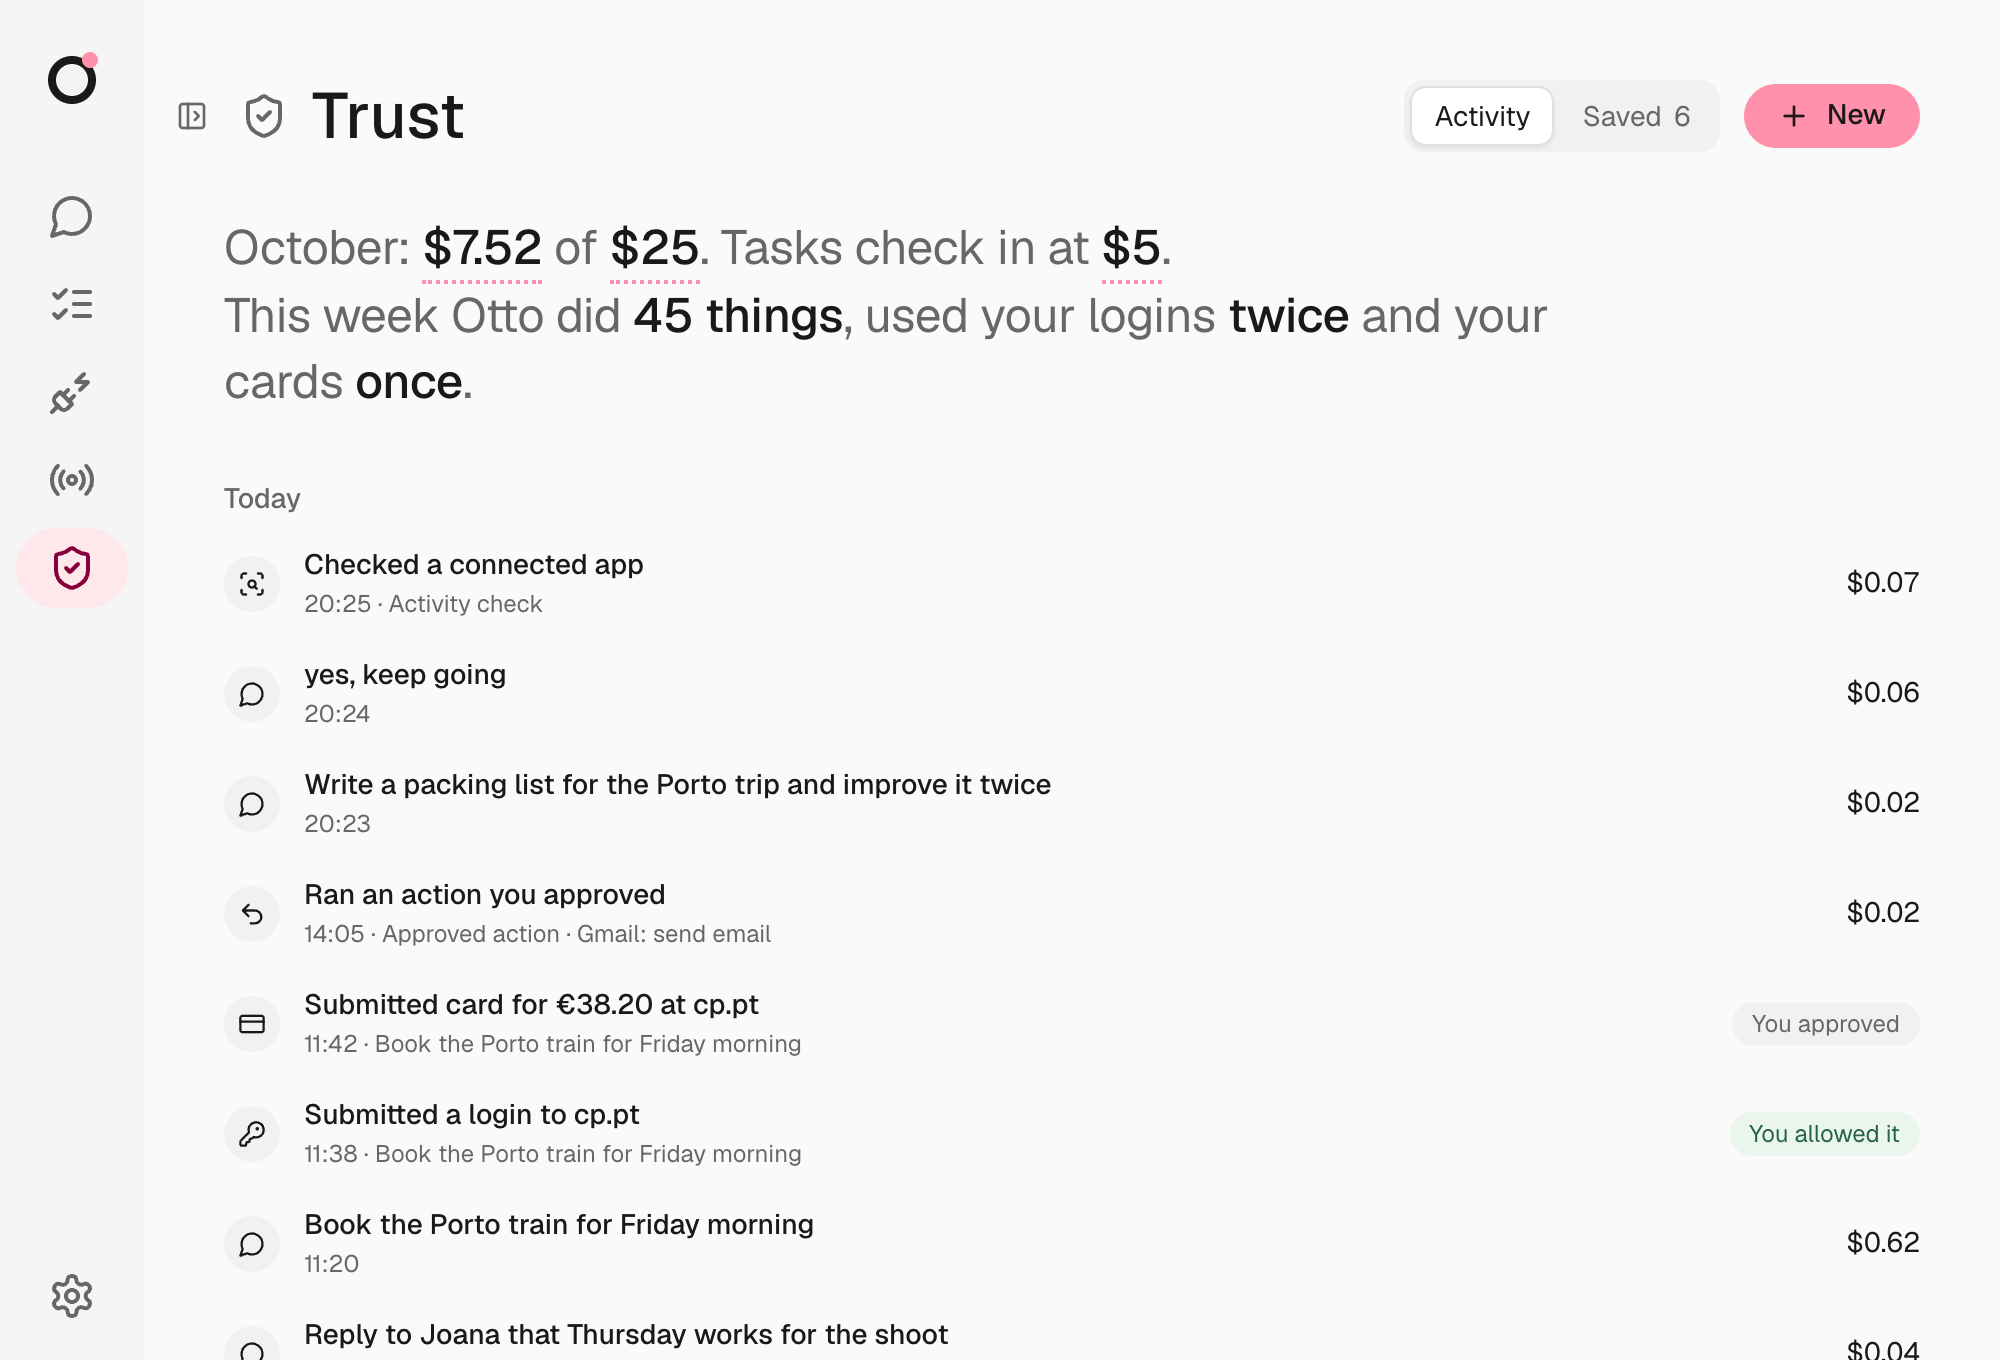
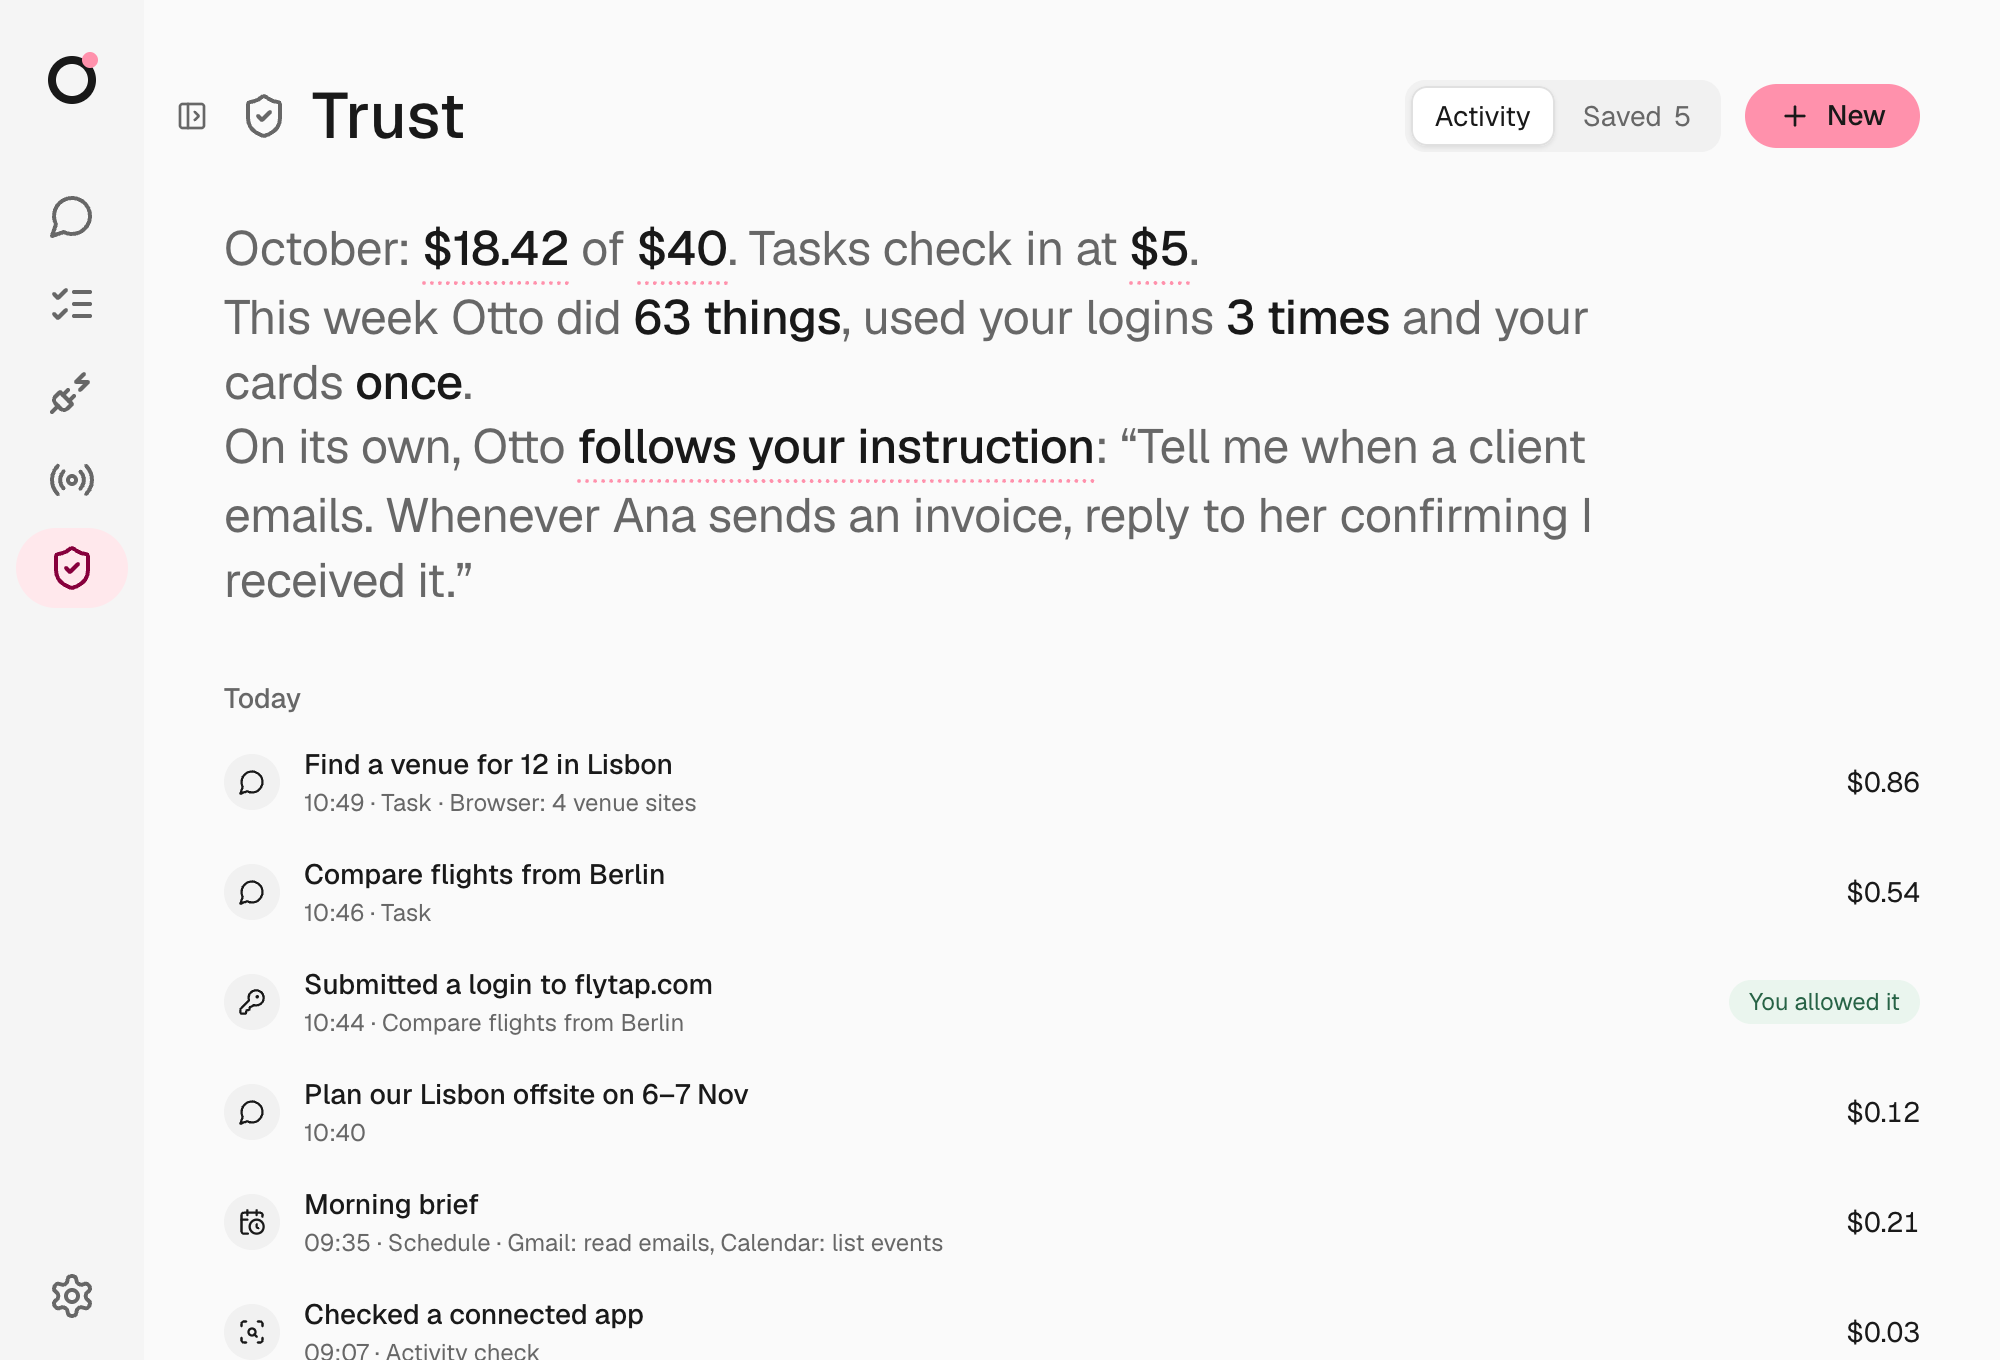
feat(trust): show and edit the standing instruction on the Trust page (#299)

diff --git a/src/web/components/trust-activity.tsx b/src/web/components/trust-activity.tsx
@@ -4,6 +4,7 @@ import { CalendarClock, MessageCircle, ScanSearch, Undo2, Zap } from 'lucide-rea
 import type { TrustEntry, TrustPage, TrustSource, TrustView } from '../../shared/trust';
 import type { VaultActivity, VaultActivityEntry } from '../../shared/contracts';
 import { api, errorMessage } from '../lib/api';
+import { savePreferences } from '../lib/preferences';
 import {
   formatDayLabel,
   formatNumber,
@@ -232,13 +233,68 @@ function TaskLimit({ view, onSaved }: { view: TrustView; onSaved(): void }) {
   );
 }
 
+function StandingInstruction({ rule, onSaved }: { rule: string; onSaved(): void }) {
+  const [draft, setDraft] = useState(rule);
+  const [error, setError] = useState('');
+  const [busy, setBusy] = useState(false);
+  async function save(notificationRule: string) {
+    setBusy(true);
+    setError('');
+    try {
+      await savePreferences({ notificationRule });
+      onSaved();
+    } catch (cause) {
+      setError(errorMessage(cause));
+      setBusy(false);
+    }
+  }
+  function submit(event: FormEvent) {
+    event.preventDefault();
+    void save(draft.trim());
+  }
+  return (
+    <form className="trust-rule-form" onSubmit={submit}>
+      <textarea
+        className="input"
+        rows={4}
+        maxLength={4000}
+        value={draft}
+        autoFocus
+        aria-label="Standing instruction"
+        placeholder="Whenever Ana sends an invoice, forward it to accounting@acme.com."
+        onChange={(event) => setDraft(event.target.value)}
+      />
+      <div className="trust-rule-actions">
+        <Button size="sm" type="submit" disabled={busy || draft.trim() === rule}>
+          Save
+        </Button>
+        {rule && (
+          <Button
+            type="button"
+            size="sm"
+            variant="ghost"
+            disabled={busy}
+            onClick={() => void save('')}
+          >
+            Stop
+          </Button>
+        )}
+      </div>
+      <small>Otto reads and drafts on its own, and does only what this says.</small>
+      {error && <Notice>{error}</Notice>}
+    </form>
+  );
+}
+
 function Sentence({
   view,
   vault,
+  rule,
   onSaved,
 }: {
   view: TrustView;
   vault: VaultActivity;
+  rule: string;
   onSaved(): void;
 }) {
   const format = useDateFormat();
@@ -337,6 +393,15 @@ function Sentence({
         ) : (
           'Nothing yet this week.'
         )}
+        <br />
+        On its own, Otto{' '}
+        <Value
+          text={rule ? 'follows your instruction' : 'watches nothing'}
+          label="Standing instruction"
+        >
+          {(close) => <StandingInstruction rule={rule} onSaved={close} />}
+        </Value>
+        {rule ? <>: “{rule}”</> : '.'}
       </p>
       {limit?.reached && (
         <Notice kind="info">
@@ -485,17 +550,19 @@ function Statement({
 export function TrustActivity({
   view,
   vault,
+  rule,
   opener,
   onSaved,
 }: {
   view: TrustView;
   vault: VaultActivity;
+  rule: string;
   opener(entry: VaultActivityEntry): (() => void) | undefined;
   onSaved(): void;
 }) {
   return (
     <div className="trust-activity">
-      <Sentence view={view} vault={vault} onSaved={onSaved} />
+      <Sentence view={view} vault={vault} rule={rule} onSaved={onSaved} />
       <Statement view={view} vault={vault} opener={opener} />
     </div>
   );

diff --git a/src/web/pages/trust.tsx b/src/web/pages/trust.tsx
@@ -9,6 +9,7 @@ import type {
   VaultSession,
 } from '../../shared/contracts';
 import type { TrustView } from '../../shared/trust';
+import type { AccountPreferences } from '../../shared/account';
 import { usePageData } from '../hooks/use-page-data';
 import { usePhone } from '../hooks/use-phone';
 import { TrustActivity } from '../components/trust-activity';
@@ -52,6 +53,7 @@ export function Trust({ hosted = false, onAsk }: { hosted?: boolean; onAsk?(text
   const sessions = usePageData<VaultSession[]>('/api/vault/sessions');
   const activity = usePageData<VaultActivity>('/api/vault/activity');
   const trust = usePageData<TrustView>('/api/trust');
+  const preferences = usePageData<AccountPreferences>('/api/preferences');
   const phone = usePhone();
   const tabsId = useId();
   const addRequested = window.location.hash
@@ -411,15 +413,16 @@ export function Trust({ hosted = false, onAsk }: { hosted?: boolean; onAsk?(text
         className="vault-panel"
       >
         <div hidden={view !== 'activity'}>
-          {activity.data && trust.data ? (
+          {activity.data && trust.data && preferences.data ? (
             <TrustActivity
               view={trust.data}
               vault={activity.data}
+              rule={preferences.data.notificationRule}
               opener={opener}
               onSaved={() => void trust.refresh()}
             />
-          ) : activity.error || trust.error ? (
-            <Notice>{activity.error || trust.error}</Notice>
+          ) : activity.error || trust.error || preferences.error ? (
+            <Notice>{activity.error || trust.error || preferences.error}</Notice>
           ) : (
             <Loading label="Opening activity…" />
           )}

diff --git a/src/web/pages/trust.css b/src/web/pages/trust.css
@@ -81,6 +81,20 @@
   appearance: none;
   margin: 0;
 }
+.trust-rule-form {
+  display: grid;
+  gap: 8px;
+  width: min(420px, calc(100vw - 64px));
+}
+.trust-rule-form textarea {
+  width: 100%;
+  min-height: 96px;
+  resize: vertical;
+}
+.trust-rule-actions {
+  display: flex;
+  gap: 4px;
+}
 .trust-task-limit {
   display: grid;
   justify-items: start;

diff --git a/docs/src/content/docs/get-started/glossary.md b/docs/src/content/docs/get-started/glossary.md
@@ -39,16 +39,16 @@ This page explains the words you'll meet in these docs. Select a term to read th
 
 ## Safety and control
 
-| Term                                                            | What it means                                                                                                                                                          |
-| --------------------------------------------------------------- | ---------------------------------------------------------------------------------------------------------------------------------------------------------------------- |
-| [Trust check](/trust/approvals/)                                | The server check that runs before every connected app action. It decides whether the action runs now or waits for you.                                                 |
-| [Approval](/trust/approvals/)                                   | Otto's yes or no question about one exact action. If you reply yes, the action runs once.                                                                              |
-| [Standing instruction](/trust/approvals/#standing-instructions) | What you told Otto to do on its own when something arrives, such as "whenever Ana sends an invoice, forward it to accounting". Background work does it without asking. |
-| [Vault](/trust/vault/)                                          | Otto's encrypted store for your saved logins, cards and browser sessions. The model never sees the saved values.                                                       |
-| [Saved login](/trust/vault/)                                    | A website username and password in Vault. Otto enters it privately, and only on that exact website.                                                                    |
-| [Saved browser session](/trust/browser-sessions/)               | A signed-in browser profile that Otto can reuse on the websites you allow.                                                                                             |
-| [Private form](/trust/vault/)                                   | A secure form where you enter a password, code or card for a task. What you type goes to the website, not to the model.                                                |
-| [Uncertain outcome](/trust/outcomes/)                           | An approved action that was interrupted, so Otto can't tell if it happened. Otto checks the result instead of running it again.                                        |
+| Term                                                            | What it means                                                                                                                                                                                              |
+| --------------------------------------------------------------- | ---------------------------------------------------------------------------------------------------------------------------------------------------------------------------------------------------------- |
+| [Trust check](/trust/approvals/)                                | The server check that runs before every connected app action. It decides whether the action runs now or waits for you.                                                                                     |
+| [Approval](/trust/approvals/)                                   | Otto's yes or no question about one exact action. If you reply yes, the action runs once.                                                                                                                  |
+| [Standing instruction](/trust/approvals/#standing-instructions) | What you told Otto to do on its own when something arrives, such as "whenever Ana sends an invoice, forward it to accounting". Background work does it without asking. You see and change it in **Trust**. |
+| [Vault](/trust/vault/)                                          | Otto's encrypted store for your saved logins, cards and browser sessions. The model never sees the saved values.                                                                                           |
+| [Saved login](/trust/vault/)                                    | A website username and password in Vault. Otto enters it privately, and only on that exact website.                                                                                                        |
+| [Saved browser session](/trust/browser-sessions/)               | A signed-in browser profile that Otto can reuse on the websites you allow.                                                                                                                                 |
+| [Private form](/trust/vault/)                                   | A secure form where you enter a password, code or card for a task. What you type goes to the website, not to the model.                                                                                    |
+| [Uncertain outcome](/trust/outcomes/)                           | An approved action that was interrupted, so Otto can't tell if it happened. Otto checks the result instead of running it again.                                                                            |
 
 ## Running Otto
 

diff --git a/docs/src/content/docs/use/schedules.md b/docs/src/content/docs/use/schedules.md
@@ -61,7 +61,7 @@ How Otto checks:
 - **Gmail.** Otto checks for new inbox mail every five minutes. Once you've said yes, each new message starts a quiet background run that decides whether there's useful work, such as preparing a reply. Until then, Otto only saves the message.
 - **Other connected apps.** Each update works the same way. For an app without updates, Otto checks the account for new activity in the same kind of quiet run, at most every 30 minutes per account.
 
-Work Otto starts on its own reads and drafts. It sends, deletes or changes something only when you've told it to do that on its own, such as "whenever Ana sends an invoice, forward it to accounting@acme.com". Anything else waits for your yes. See [Standing instructions](/trust/approvals/#standing-instructions). To stop, tell Otto, for example "stop flagging Slack messages".
+Work Otto starts on its own reads and drafts. It sends, deletes or changes something only when you've told it to do that on its own, such as "whenever Ana sends an invoice, forward it to accounting@acme.com". Anything else waits for your yes. See [Standing instructions](/trust/approvals/#standing-instructions). To change or stop it, select it in **Trust → Activity**, or tell Otto, for example "stop flagging Slack messages".
 
 The first time Otto messages you about something on its own, such as a calendar change, it sends a short second message to say it will keep doing this. Tell it to stop or to do less at any time. After a one-off job that will come up again, such as this week's top posts or a reply to a client, Otto offers once, in its own message, to keep doing it, unless a schedule already covers it. It sets nothing up until you say yes. When you act on something background work brought you, such as asking Otto to reply, and it will come up again, Otto offers once to do it without asking next time.
 

diff --git a/docs/src/content/docs/use/spending.md b/docs/src/content/docs/use/spending.md
@@ -13,12 +13,12 @@ Otto itself doesn't charge you. Your model provider bills you for the requests O
 
 Open **Trust** in the sidebar (⌘I on a Mac, Ctrl+I elsewhere). **Activity** opens first.
 
-- **The sentence at the top.** This month's spending, your monthly limit and when a task checks in, then what Otto did this week. Select a value to see more or change it.
+- **The sentence at the top.** This month's spending, your monthly limit and when a task checks in, then what Otto did this week and the [standing instruction](/trust/approvals/#standing-instructions) it follows on its own. Select a value to see more or change it.
 - **The list.** Every request that cost money or acted in a connected app, and every sign-in and card use, grouped by day. Each line shows where it came from, such as **Schedule**, **Activity check** or **Approved action**, what Otto did and the cost.
 
 Select this month's total to see a chart and a forecast, such as "On track for $12.40". Every app action is recorded, reads included.
 
-![Trust → Activity: October spending of $7.52 of a $25 limit, tasks that check in at $5, and today's app actions, sign-in and card use.](../../../assets/screens/trust-light.png)
+![Trust → Activity: October spending of $18.42 of a $40 limit, tasks that check in at $5, the instruction Otto follows on its own, and today's tasks, sign-in and schedule run.](../../../assets/screens/trust-light.png)
 
 ## Set a monthly limit
 
